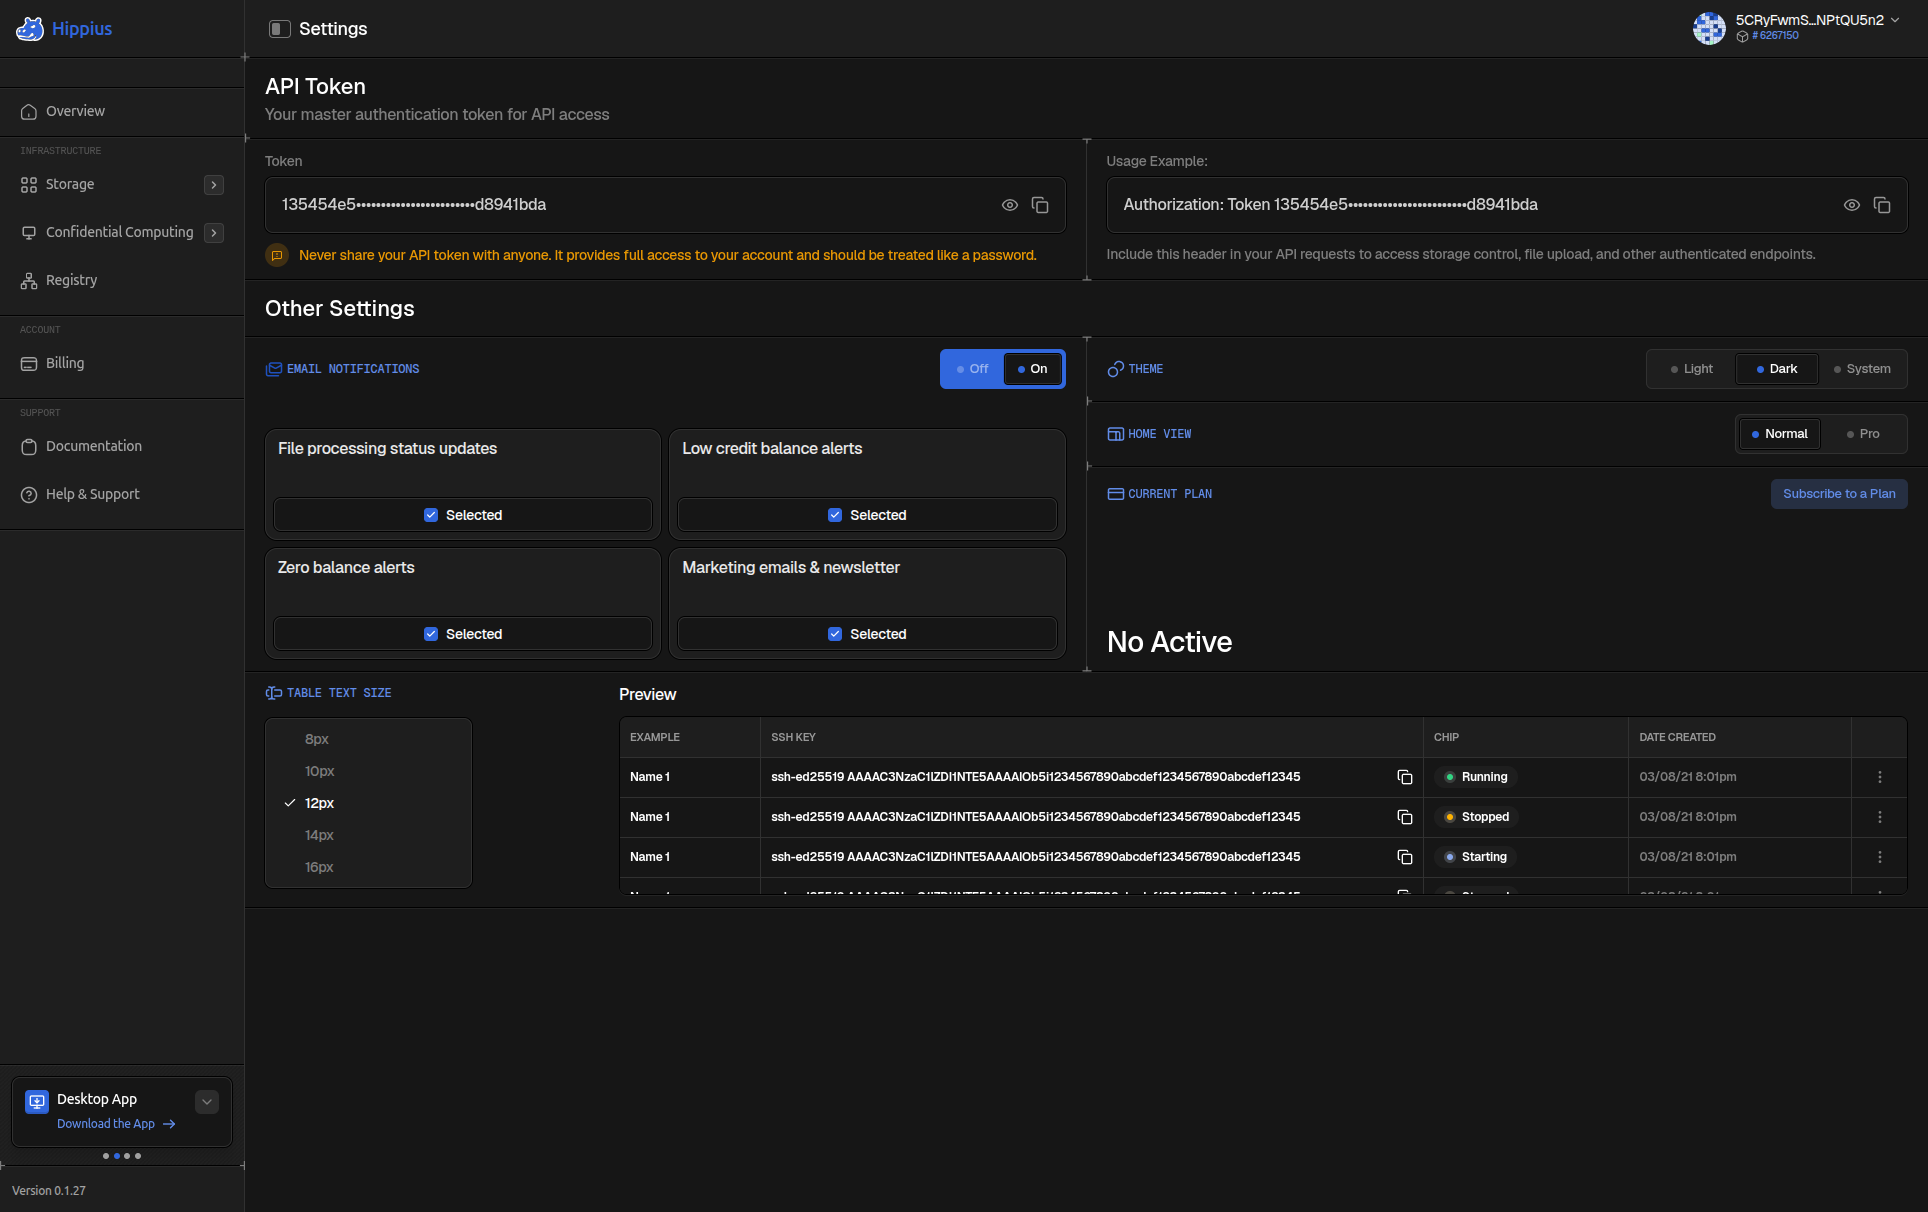
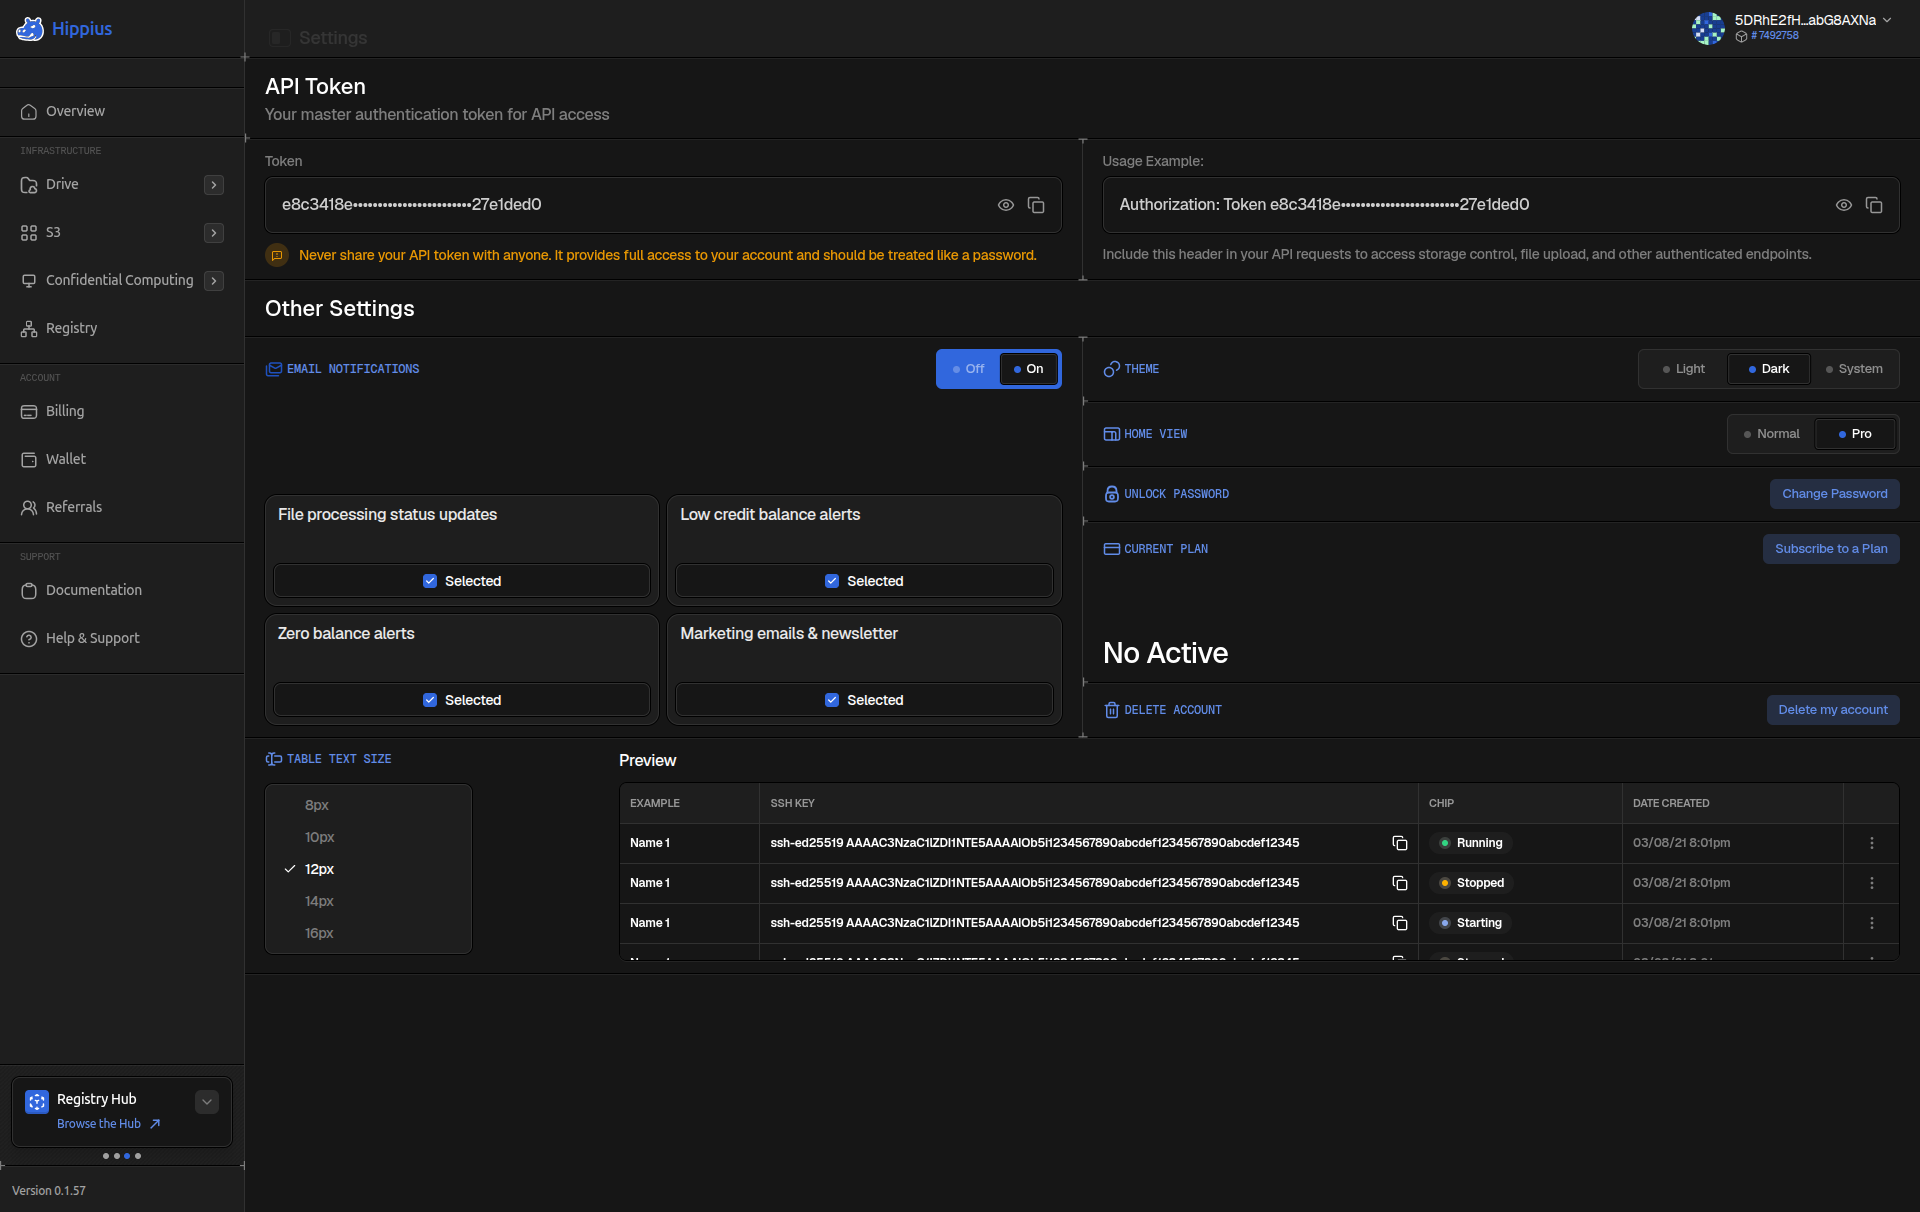
docs(console): document account deletion in Settings
Covers the Delete Account row end to end: the live inventory of what gets
removed, the 3-step flow for email and social logins versus the 2-step
flow for seed and access-key accounts, the 7-day grace period and locked
state that follows, and how to cancel in either case.

Notes that Compute and networking are still in beta, so those groups are
usually empty and cannot hold a deletion up.

Re-exports the Settings overview screenshot as a raw capture and renders
it with the new `raw` prop, matching the dark variant.

diff --git a/docs/use/console/settings.md b/docs/use/console/settings.md
@@ -20,7 +20,7 @@ To reach Settings, click the **Hippius** dropdown in the top left of the sidebar
 
 All changes save automatically. There is no save button anywhere on this page.
 
-<Screenshot src="/img/console/settings/overview.png" alt="Settings page" dark />
+<Screenshot src="/img/console/settings/overview.png" alt="Settings page" dark  raw />
 
 ## API Token
 
@@ -38,27 +38,24 @@ See [Hippius API](/use/api) for available endpoints.
 Anyone with this token has full access to your account. Never paste it into public documents, repositories, screenshots, or chat messages. If you believe it has been compromised, contact our support team immediately.
 :::
 
-
 ## Email Notifications
 
 Control which emails Hippius sends you. There's a master on/off switch at the top, and four individual toggles below it.
 
 When the master switch is **off**, no emails are sent regardless of the individual settings. When it's **on**, each toggle controls its specific notification type:
 
-| Notification | What it sends |
-|---|---|
+| Notification                       | What it sends                                                            |
+| ---------------------------------- | ------------------------------------------------------------------------ |
 | **File processing status updates** | Emails when your uploads finish processing through the Hippius pipeline. |
-| **Low credit balance alerts** | An email when your balance drops below a set threshold. |
-| **Zero balance alerts** | An email when you run out of credits and uploads are paused. |
-| **Marketing emails & newsletter** | Product updates, announcements, and occasional offers. |
+| **Low credit balance alerts**      | An email when your balance drops below a set threshold.                  |
+| **Zero balance alerts**            | An email when you run out of credits and uploads are paused.             |
+| **Marketing emails & newsletter**  | Product updates, announcements, and occasional offers.                   |
 
 Click any toggle to flip it. The change saves immediately.
-
 
 ## Theme
 
 Pick **Light** or **Dark**. The change applies instantly and persists across all your sessions and devices.
-
 
 ## Home View
 
@@ -70,19 +67,17 @@ Choose between two dashboard layouts:
 
 The change takes effect the next time you load the Overview page (or immediately if you're already on it).
 
-
 ## Table Text Size
 
 Choose how rows look across all tables in the console. Drive, S3, and Billing tabs all follow this setting.
 
-| Option | Best for |
-|---|---|
-| **Compact** | Seeing more rows at once on large monitors or dense data sets. |
-| **Comfortable** *(default)* | Balanced spacing for everyday use. |
-| **Spacious** | Easier reading during long sessions or on smaller screens. |
+| Option                      | Best for                                                       |
+| --------------------------- | -------------------------------------------------------------- |
+| **Compact**                 | Seeing more rows at once on large monitors or dense data sets. |
+| **Comfortable** _(default)_ | Balanced spacing for everyday use.                             |
+| **Spacious**                | Easier reading during long sessions or on smaller screens.     |
 
 A preview row at the top of this section updates live as you switch options, so you can see the difference before committing.
-
 
 ## Current Plan
 
@@ -92,6 +87,91 @@ If you don't have a plan yet, a shortcut card points you to the Billing page whe
 
 You can also cancel directly from the Billing page by finding your active plan card and clicking **Cancel Subscription** there. For a full comparison of plans and instructions for switching or cancelling, see [Billing → Subscription Plans](/use/console/billing#subscription-plans).
 
+## Delete Account
+
+The last row on the page deletes your account and everything in it. You do the whole thing yourself, in the console — there is no support ticket to raise and no form to fill in, whichever way you sign in.
+
+Deleting is not instant. Your account is **locked the moment you confirm**, and permanently deleted **7 days later**. Those 7 days are a grace period: until the deletion runs you can still stop it and get everything back.
+
+:::danger This deletes everything
+Your files, buckets, container images, subscriptions and remaining credits all go. After the 7 days there is nothing left to restore, and no copy on our side to restore it from.
+:::
+
+### What gets deleted
+
+The first screen of the dialog is not a warning, it is an **inventory**. It reads your account live and lists what is actually there, in six groups:
+
+| Group                    | What it covers                                                  |
+| ------------------------ | --------------------------------------------------------------- |
+| **Storage**              | Everything in Drive and in your S3 buckets.                     |
+| **Compute**              | Virtual machines and managed databases.                         |
+| **Registry and network** | Container registry projects and images, and your network peers. |
+| **Subscriptions**        | Any active Drive, S3 or Registry plan, which is cancelled.      |
+| **Credits**              | Your remaining balance, which is forfeited, and any saved card. |
+| **Access and account**   | API tokens, S3 keys, SSH keys and every way of signing in.      |
+
+Only groups that hold something get a checkbox to tick. A group that is empty collapses to a single grey line, so you are only asked to confirm what you actually have.
+
+:::note Compute and networking are still in beta
+Confidential Computing — virtual machines and managed databases — and the network rail are not generally available yet. If your account doesn't have them, the **Compute** group simply reads "No VMs or databases" and the network half of **Registry and network** is empty. Nothing to tick, and nothing that can hold your deletion up. Container registry is live and does appear.
+:::
+
+If you _are_ on the beta and have a **running** VM or managed database, that blocks the request until it is decommissioned. The dialog says so and links straight to the pages where you can shut them down.
+
+### Deleting your account
+
+Click <BgStyledText>Delete my account</BgStyledText> to open the dialog.
+
+Everyone finishes by typing the confirmation phrase. The only thing that differs is whether there is an email step before it:
+
+| How you sign in                                   | Steps                                   |
+| ------------------------------------------------- | --------------------------------------- |
+| **Email or social login** (Google, GitHub, Apple) | **3** — inventory, emailed code, phrase |
+| **Recovery seed or access key**                   | **2** — inventory, phrase               |
+
+A wallet-only account is deleted in exactly the same way, on exactly the same 7 day schedule. It simply has no mailbox to send a code to, so that one screen does not exist and the counter reads "of 2" instead of "of 3". Nothing else changes, and you do not need to contact anyone.
+
+**Step 1 — What will be deleted.** Read the inventory and tick each group's checkbox. **Continue** stays disabled until every group that holds something is ticked.
+
+**Step 2 — Prove it's you.** _Email and social logins only._ Hippius emails you a **6-digit code** as soon as this screen opens; you don't have to ask for it. The code expires in 15 minutes. If it doesn't arrive, use **Resend** at the bottom, which becomes available again 60 seconds after each send.
+
+**Last step — Type to confirm.** Type <BgStyledText>delete my account</BgStyledText> exactly, then click **Delete my account and everything in it**. This screen is shown to everyone: it is step 3 of 3 with an email address on the account, and step 2 of 2 without one.
+
+### What happens right after
+
+You are not dropped back at a login form. The console takes you to a page headed **Your account is locked**, which gives the exact date the account will be deleted, says how to keep it, and offers a **Back to Hippius** button. That page is public, so you can leave it open, bookmark it, or come back to it — it does not need a session.
+
+Behind that, three things have happened at once:
+
+<Ordered>
+  <li>Your account is <strong>locked</strong>. Drive and S3 are suspended, and every API token and session is revoked — including the one you were just using, which is why you are signed out. Scripts and integrations stop working straight away.</li>
+  <li>The deletion is scheduled for 7 days later.</li>
+  <li>If the account has an email address, the cancel link is sent to it.</li>
+</Ordered>
+
+Nothing is erased yet. Everything you own still exists, untouched, until that date.
+
+### Changing your mind
+
+You have the whole grace period to stop the deletion. How you do it depends on how you sign in.
+
+**If your account has an email address**, use the **cancel link in the email** we send you when the deletion is scheduled. It works without signing in, which matters, because your sessions were revoked when you confirmed.
+
+**If you sign in with a recovery seed or an access key** there is no email, so the cancel link doesn't apply. Instead:
+
+<Ordered>
+  <li>Sign in again with your wallet. A locked account can still sign in.</li>
+  <li>Open Settings.</li>
+  <li>The Delete account row now reads <strong>Scheduled for deletion on …</strong>. Click <BgStyledText>Cancel deletion</BgStyledText>.</li>
+</Ordered>
+
+Either way the result is the same: your account is active again, the lock is lifted, and nothing was deleted.
+
+:::warning Signing back in does not cancel anything by itself
+While a deletion is scheduled the console still opens, but the account stays locked and most pages will be empty or show an error. That is expected. Until you actually press **Cancel deletion**, the countdown is still running.
+:::
+
+Some deletions are final from the moment they are confirmed. When that is the case the dialog says so in amber, **"This cannot be cancelled once confirmed"**, before you commit, and the page afterwards repeats it. If you see that line, treat the button as the last decision.
 
 ## Where to next
 
